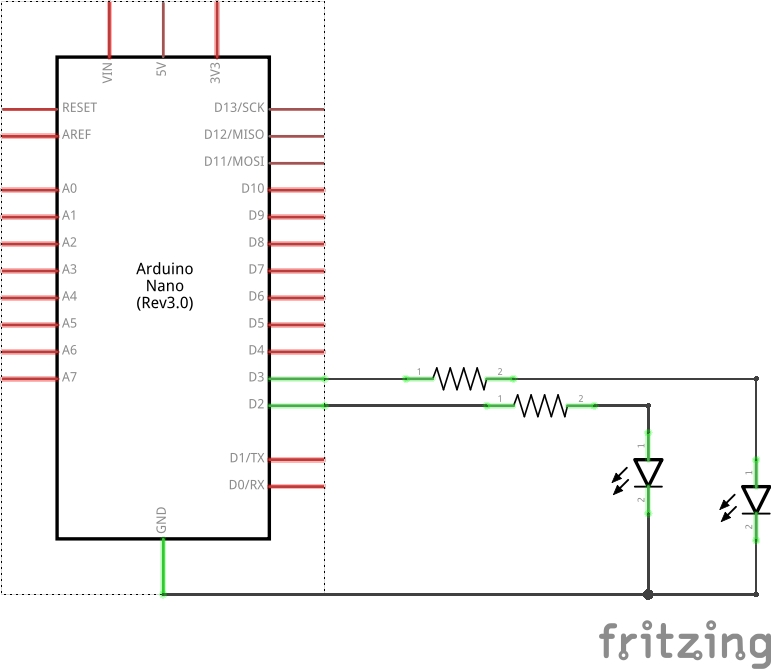
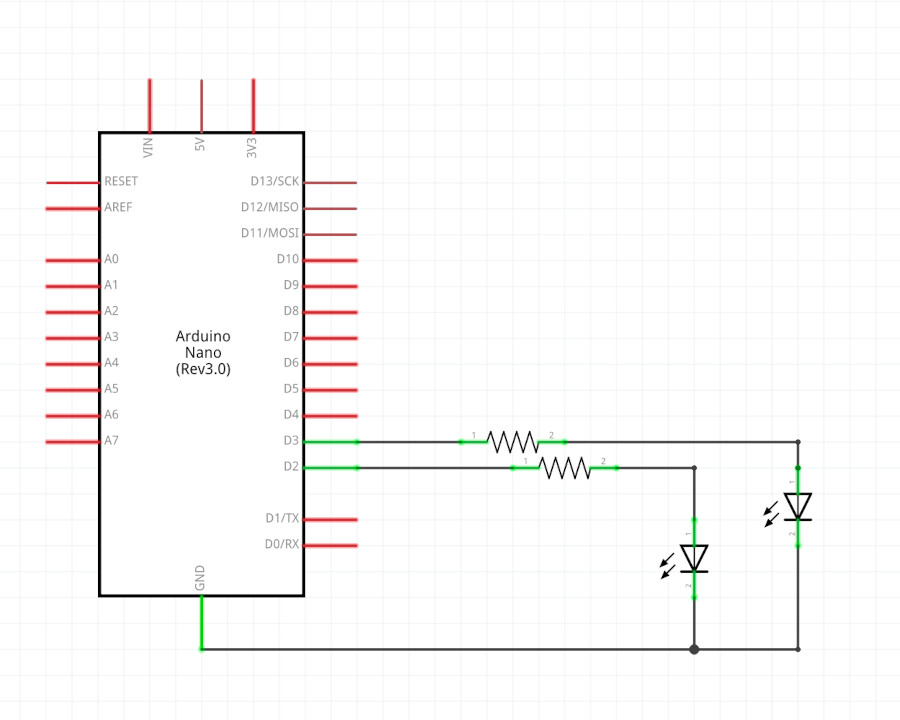
fix images

Changed region(s): [[0.0, 0.0, 1.0, 1.0], [0.1868, 0.3886, 0.249, 0.5381], [0.9339, 0.6577, 1.0, 0.8371]]

diff --git a/README.md b/README.md
@@ -1,11 +1,12 @@
 # WK11
 
-Arduino Analog and Digital Write
+## Arduino Analog and Digital outputs
 
----
+### Circuit schematic:
 
-Using this circuit:
+![](./imgs/WK11_schem.jpg)
 
-![]("./imgs/WK11_schem.jpg")
 
-![]("")
+### Breadboard:
+
+![](./imgs/WK11_bb.jpg)
